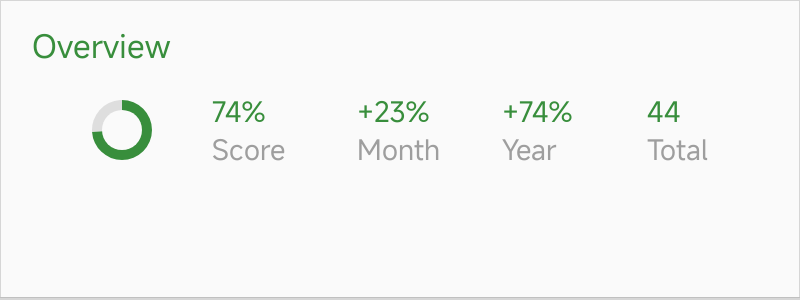
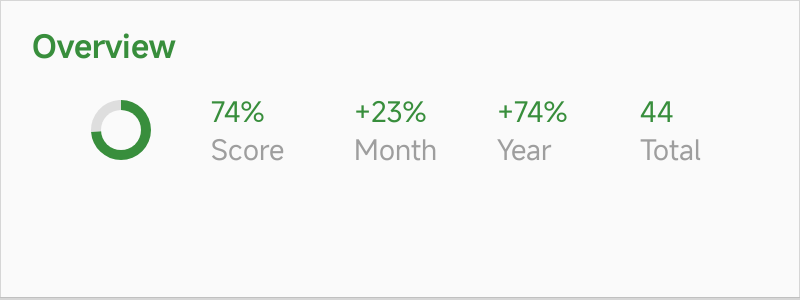
xrnloops: give card content room, drop the dead developer boxes
Loop's 4dp of right padding left content 2dp from the rounded card's
edge, so the History chart's square corner cut a notch in the curve and
the longest streak's end date reached the border. Cards now have 8dp on
the right and Best streaks 16dp, matching its left. The Overview, Score
and Best streaks reference images are redrawn; they also pick up the
bold titles an earlier change made.

Nothing read the Sync server, Sync key or Encryption key boxes in the
developer section, and the first held Loop's address, so they're gone.

diff --git a/XRNLOOPS.md b/XRNLOOPS.md
@@ -54,6 +54,8 @@ Cloned shallow from upstream `7e993e1` (2.3.1). To rebase onto a newer upstream,
 | Typing isn't lost on the way out (2026-11-06). Back or the toolbar's arrow on a changed habit form asks "Discard your changes?", and an unchanged form leaves at once: `EditHabitActivity` compares what Save would write with the form as it opened. The web's form asks too, on Cancel, on the browser's Back and on closing the tab. Leaving a number sheet any way but Save keeps a typed amount as it already kept a note, on the phone (`NoteSheet`) and the web (`numberSheet`); a box left blank leaves the day alone, since only Save or Clear empties one. | `EditHabitActivity`, `xrnnote/NoteSheet`, `web/app.js` |
 | Loop's outside links (2026-11-06): "Generate bug report" emailed Loop's author and Help & FAQ opened Loop's site, so both are gone from the list menu and Settings, with the code behind them (`onSendBugReport`, `BugReporter`, `ListHabitsModule`, `onViewFAQ`, `showFAQScreen`, `showSendEmailScreen`). A crash still writes its log to the phone (`AndroidBugReporter`). | `ListHabitsMenu`, `ListHabitsScreen`, `preferences.xml`, `ListHabitsBehavior`, `ListHabitsMenuBehavior` |
 | Sync trouble on the web clears on the first good answer (2026-11-06): while sync is failing the poll isn't held open, so Retry shows its result at once rather than up to 25 s later. | `web/app.js` |
+| Card content keeps off the edge (2026-11-06). Loop's 4dp of right padding left content 2dp from the rounded card's edge, so a chart's square corner poked past the curve and the longest streak's end date touched the border. Cards now have 8dp on the right, and Best streaks has 16dp, matching its left. | `values/styles.xml`, `layout/show_habit.xml` |
+| The developer section's Sync server, Sync key and Encryption key boxes are gone (2026-11-06): nothing read them, and the first held Loop's address. | `xml/preferences.xml`, `values/constants.xml` |
 | A sync costs less (2026-11-06). Entries from the server go in with one transaction per habit (`EntryRepository.replaceAll`, `EntryList.addAll`), not two commits each, and a round that changed nothing leaves the snapshot file alone. Nothing inside that transaction takes another lock, so it can't deadlock with a thread waiting for the database while holding one | `xrnsync/XrnSync.kt`, `uhabits-core` `EntryRepository`, `EntryList`, `SQLiteEntryList` |
 | The web app comes from the browser's cache when it can (2026-11-06): fonts are kept, everything else revalidates with an `ETag`, and woff2 isn't gzipped again on every request | `server/xrnloops-sync.py` |
 
